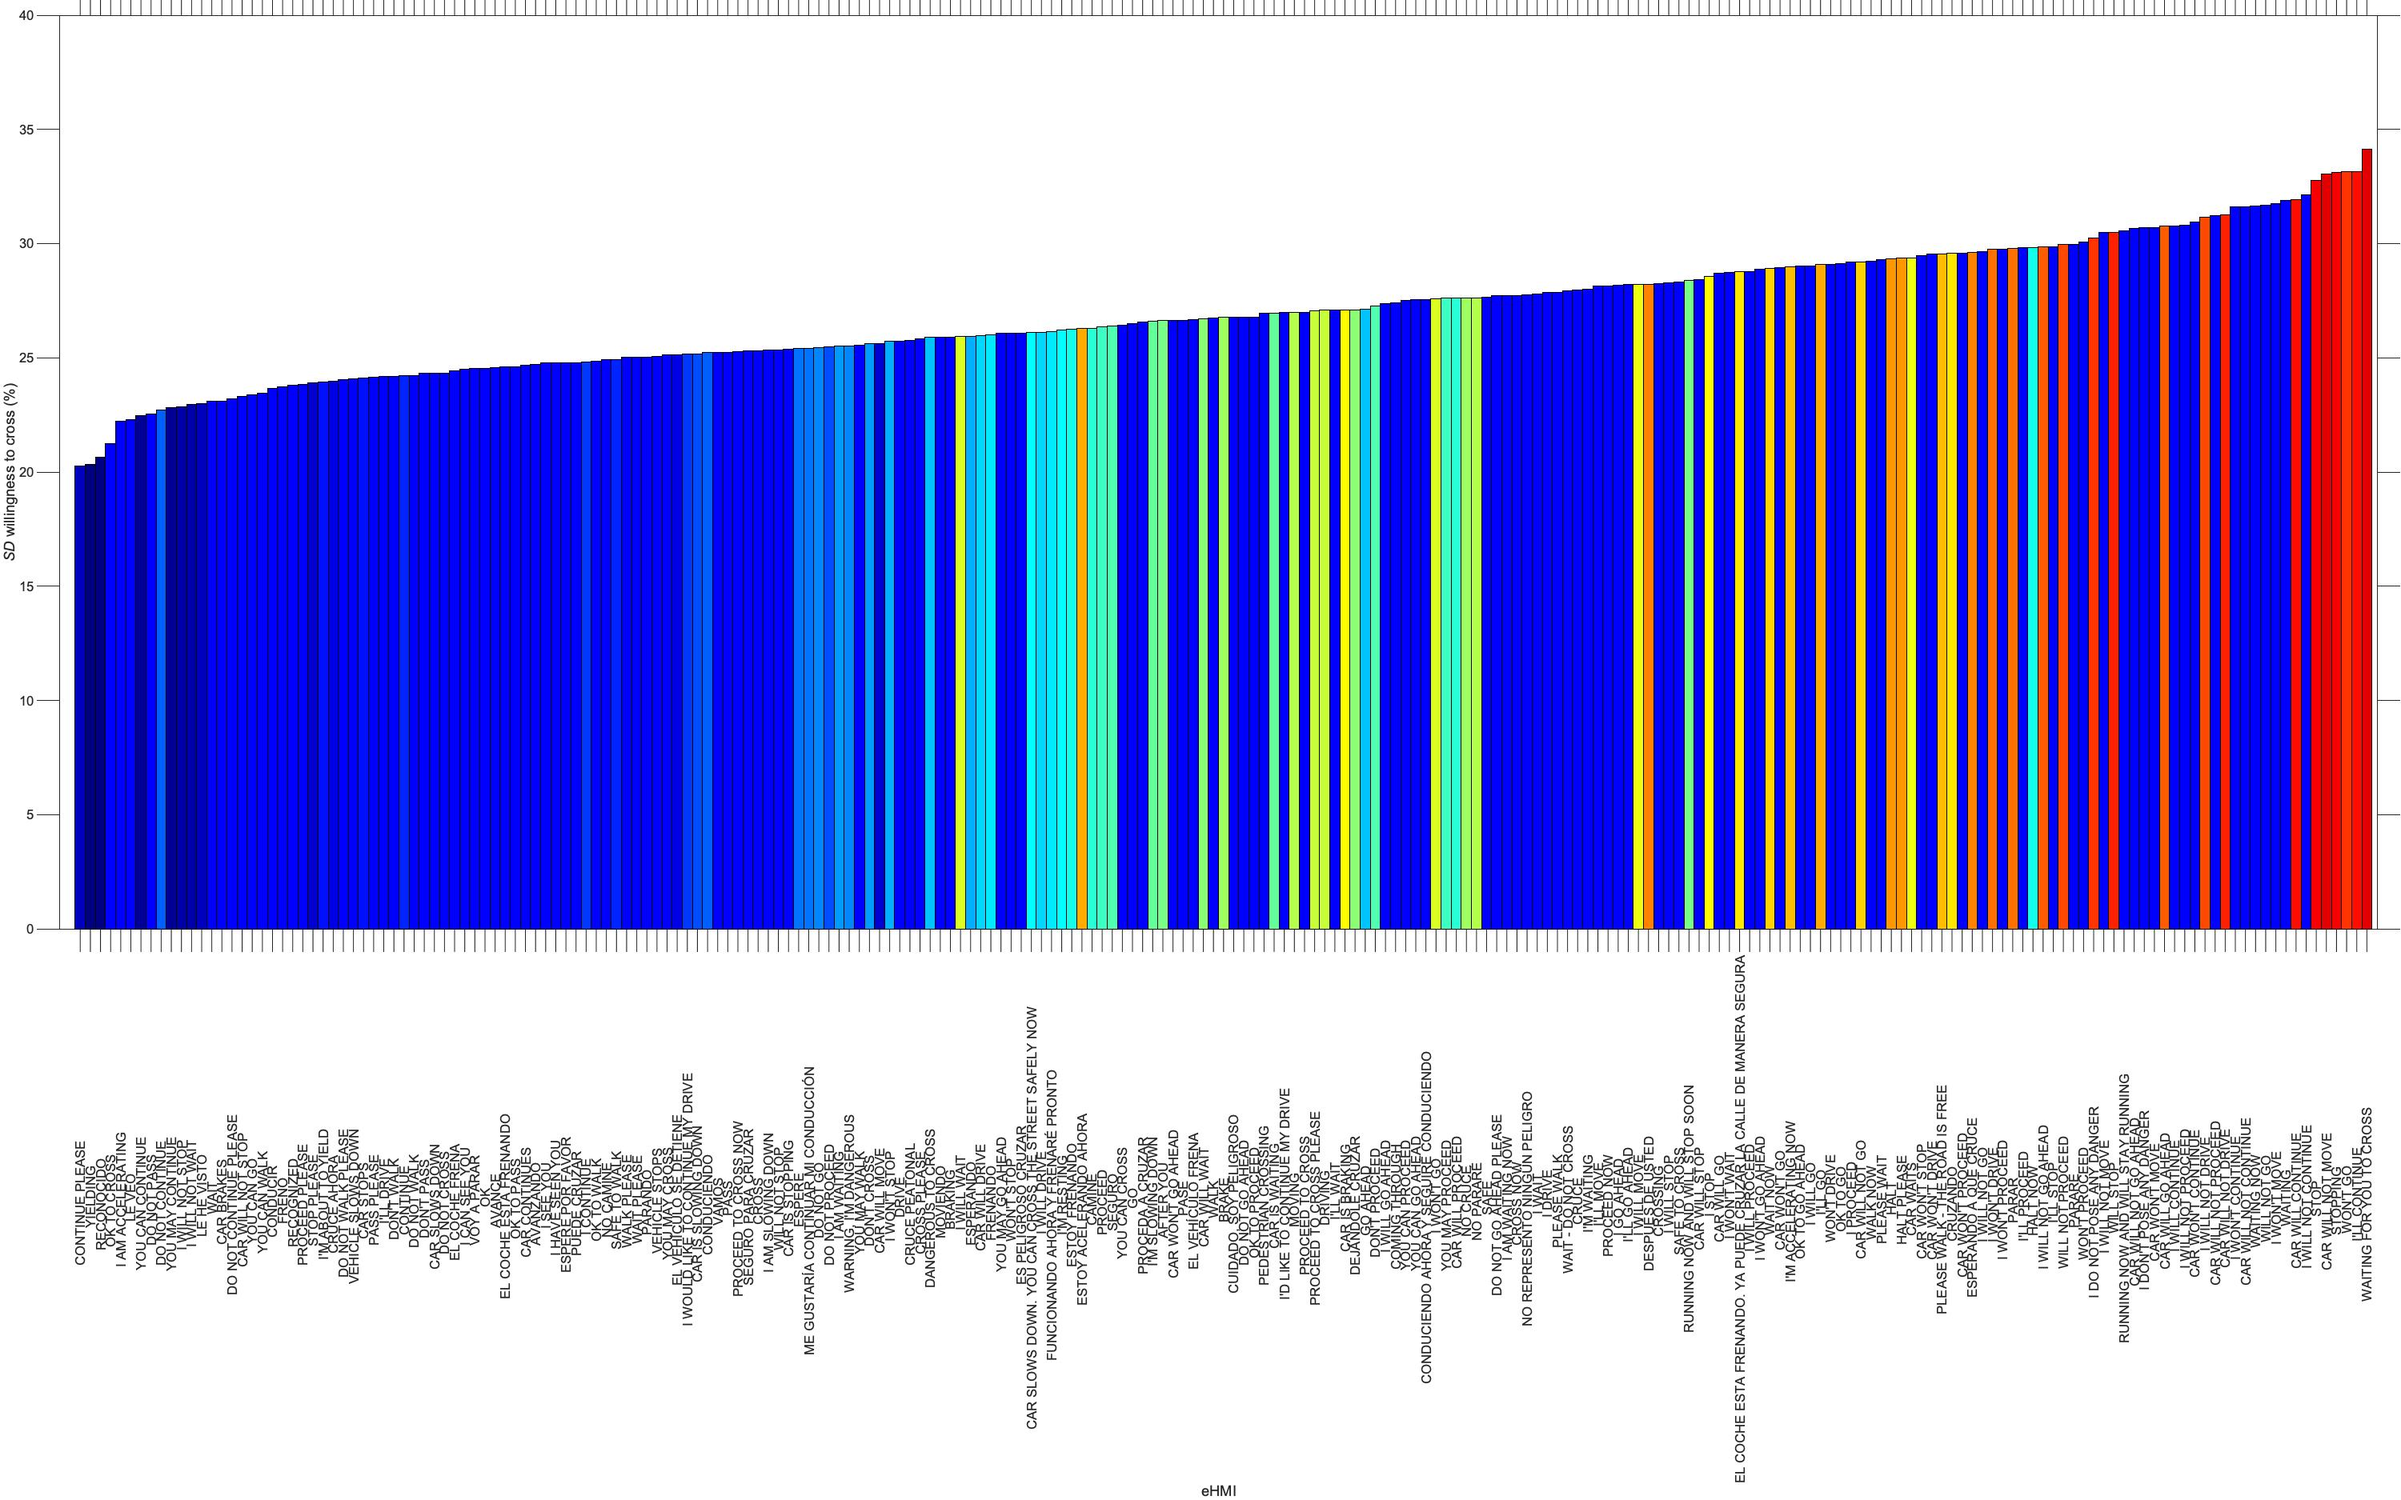
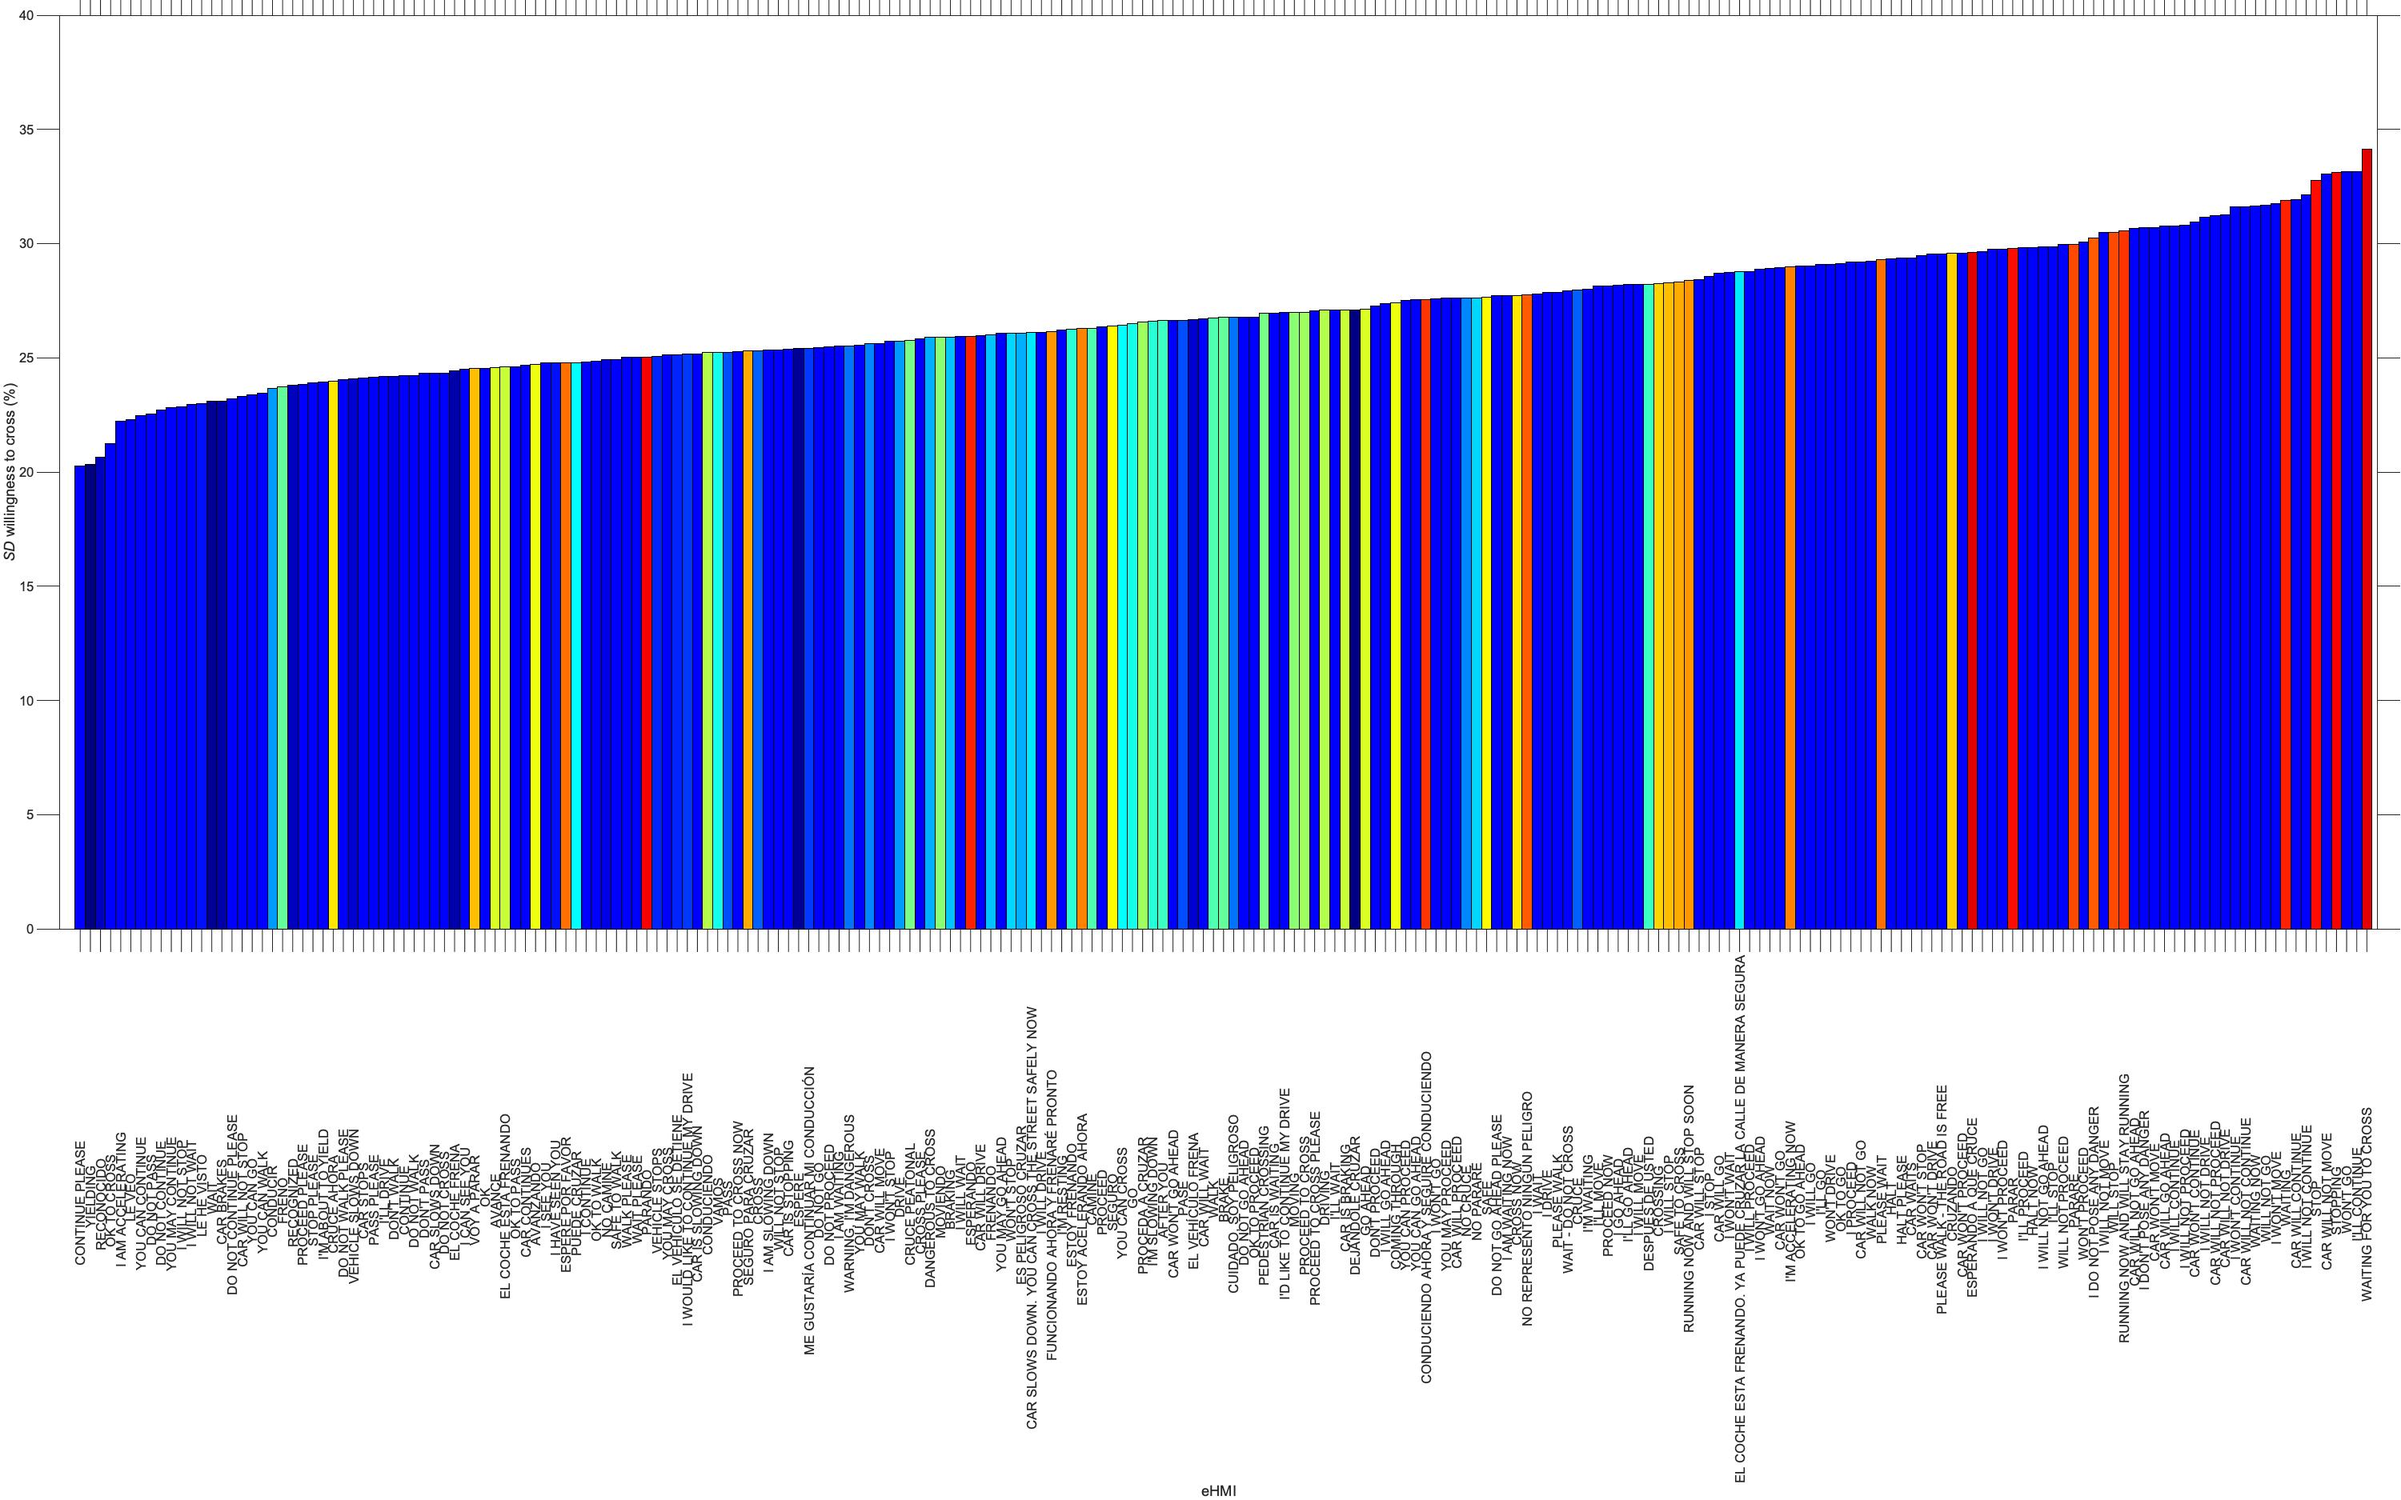
Fixed sorting

Changed region(s): [[0.031, 0.0928, 0.992, 0.6187]]

diff --git a/textehmi/analysis/analysis.m b/textehmi/analysis/analysis.m
@@ -151,14 +151,14 @@ cmap = colormap(jet); % choose colormap
 counter_colour = 1;  % counter for assigned colours
 for i=1:N_STIMULI % loop over eHMIs
     % get index in cell array
-    ehmi = strtrim(eHMI_text_MedSorted(i,:));
+    ehmi = strtrim(eHMI_text_MeanSorted(i,:));
     % check if there is Spanish translation
     if find(ismember(mapping{:,10}, ehmi))
         index_es = find(ismember(mapping{:,10}, ehmi));
         ehmi_es = char(mapping{index_es,2});
         % find index of ES eHMI
         for j=1:N_STIMULI % loop over eHMIs
-            ehmi_tick_trimmed = strtrim(eHMI_text_MedSorted(j,:));
+            ehmi_tick_trimmed = strtrim(eHMI_text_MeanSorted(j,:));
             if strcmp(ehmi_es, ehmi_tick_trimmed)
                 i_es = j;
                 break;
@@ -201,14 +201,14 @@ cmap = colormap(jet); % choose colormap
 counter_colour = 1;  % counter for assigned colours
 for i=1:N_STIMULI % loop over eHMIs
     % get index in cell array
-    ehmi = strtrim(eHMI_text_MedSorted(i,:));
+    ehmi = strtrim(eHMI_text_STDSorted(i,:));
     % check if there is Spanish translation
     if find(ismember(mapping{:,10}, ehmi))
         index_es = find(ismember(mapping{:,10}, ehmi));
         ehmi_es = char(mapping{index_es,2});
         % find index of ES eHMI
         for j=1:N_STIMULI % loop over eHMIs
-            ehmi_tick_trimmed = strtrim(eHMI_text_MedSorted(j,:));
+            ehmi_tick_trimmed = strtrim(eHMI_text_STDSorted(j,:));
             if strcmp(ehmi_es, ehmi_tick_trimmed)
                 i_es = j;
                 break;
